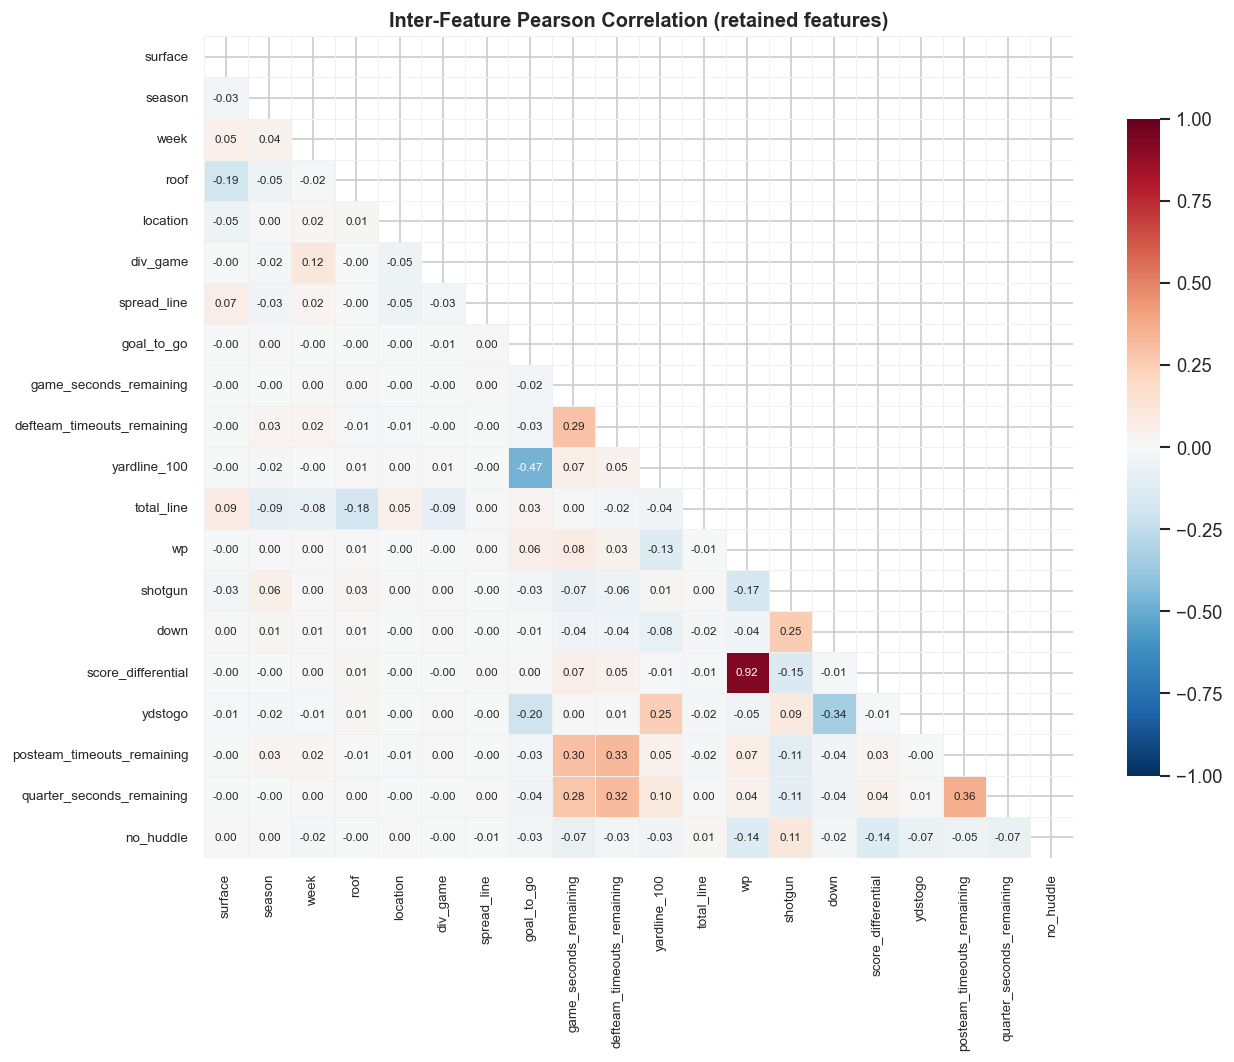
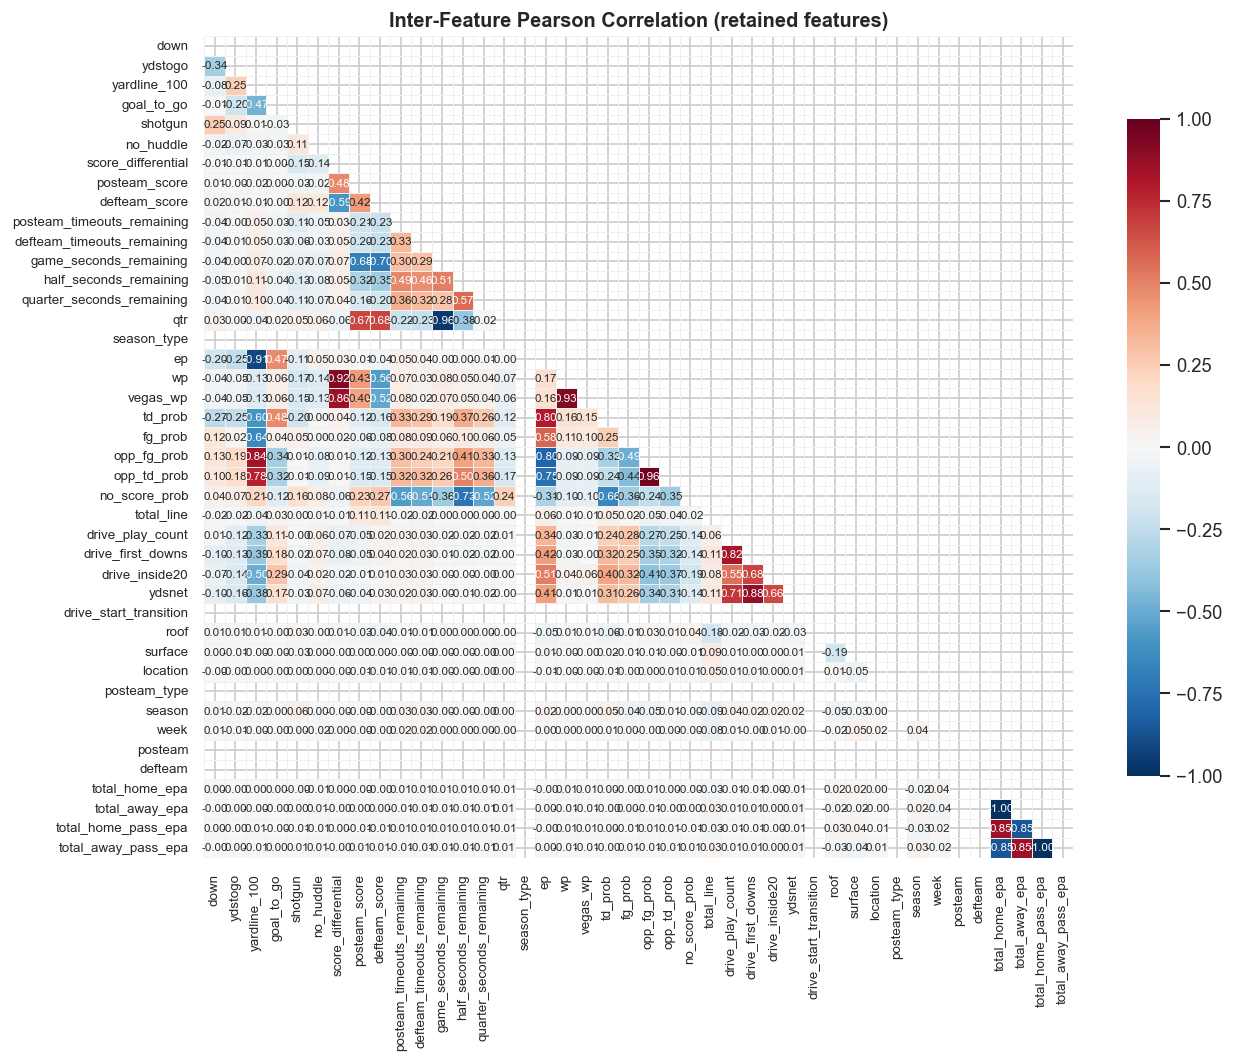
fix: small change so it alings with config

Changed region(s): [[0.0, 0.0311, 0.8622, 0.9944]]

diff --git a/config.py b/config.py
@@ -9,18 +9,14 @@ SEASONS = list(range(2016, 2024))  # 8 years
 MISSING_THRESHOLD = 0.05      # Stage 2: max. allowed missing rate per column
 ASSOCIATION_THRESHOLD = 0.05  # Stage 3: min. |r_pb| or Cramér's V to retain a feature
 
-# final after VIF and treshold 0.05; 7 features
-# treshold 0.05; 8 features
-# treshold 0.03; 13 features
-# treshold 0.00; 20 features
 FEATURE_SETS = {
-    #"mini": ["shotgun", "down", "score_differential", "ydstogo", "posteam_timeouts_remaining", "quarter_seconds_remaining", "no_huddle"],
+    "mini": ["shotgun", "down", "score_differential", "ydstogo", "posteam_timeouts_remaining", "quarter_seconds_remaining", "no_huddle"],
     
-    #"comprehensive": [
-    #    "down", "ydstogo", "yardline_100", "goal_to_go", "shotgun", "no_huddle",
-    #    "score_differential", "defteam_score", "posteam_timeouts_remaining", "defteam_timeouts_remaining", "season_type",
-    #    "game_seconds_remaining", "half_seconds_remaining", "qtr", "ep", "wp", "total_line", "drive_start_transition", "roof"
-    #],
+    "comprehensive": [
+        "down", "ydstogo", "yardline_100", "goal_to_go", "shotgun", "no_huddle",
+        "score_differential", "defteam_score", "posteam_timeouts_remaining", "defteam_timeouts_remaining", "season_type",
+        "game_seconds_remaining", "half_seconds_remaining", "qtr", "ep", "wp", "total_line", "drive_start_transition", "roof"
+    ],
 
     "maxi": [
         "down", "ydstogo", "yardline_100", "goal_to_go", "shotgun", "no_huddle",